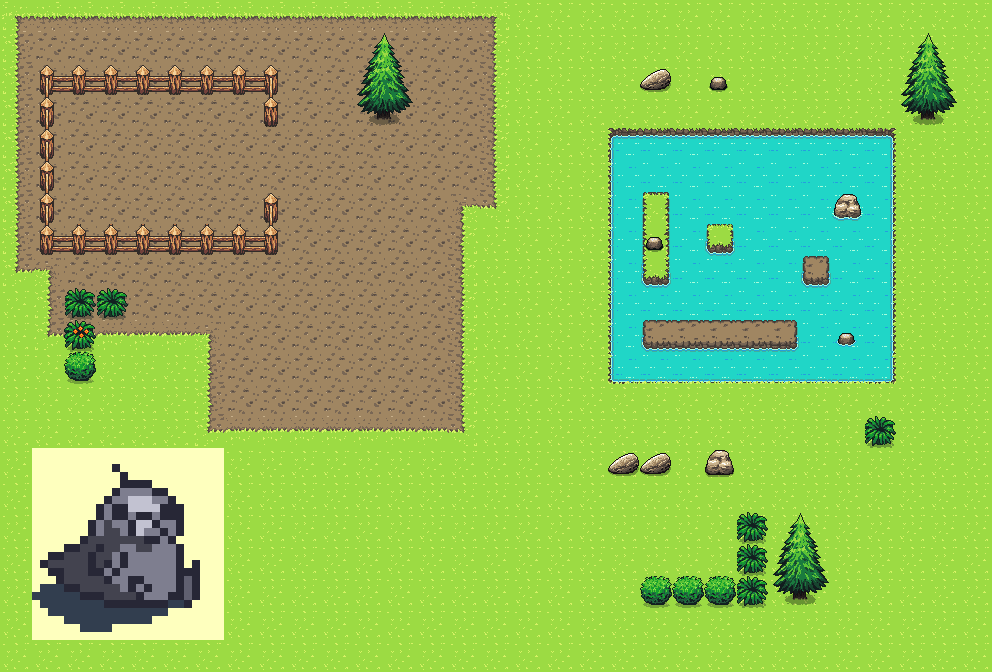
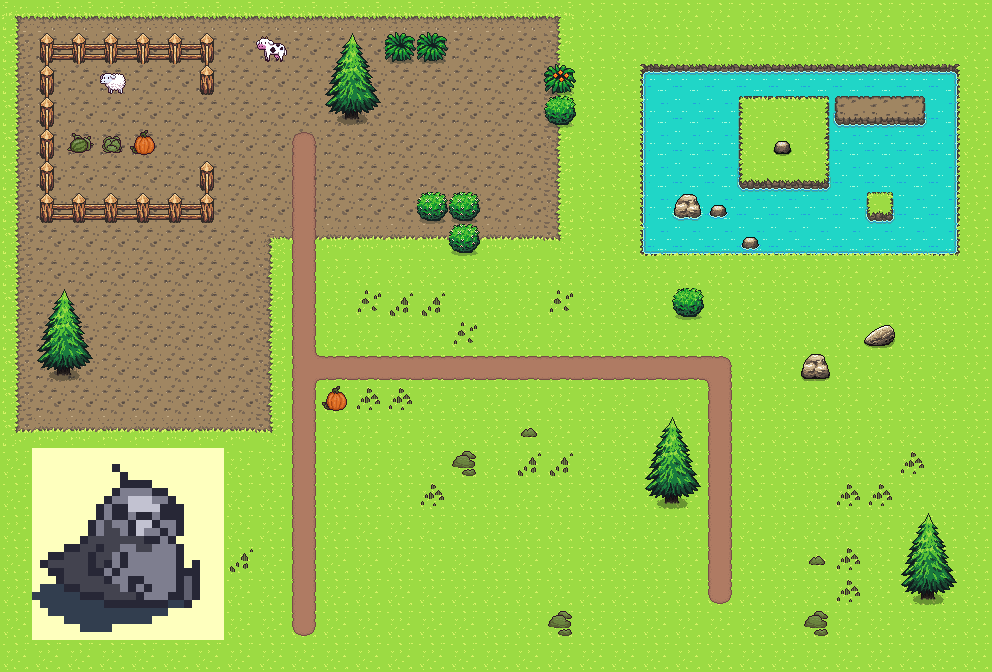
Add files via upload

diff --git a/tilesets/tilesheet_basic.tsx b/tilesets/tilesheet_basic.tsx
@@ -1,4 +1,4 @@
 <?xml version="1.0" encoding="UTF-8"?>
 <tileset version="1.10" tiledversion="1.11.2" name="tilesheet_basic" tilewidth="32" tileheight="32" tilecount="160" columns="16">
- <image source="../../../simple_tileset_32x32_version1.0/simple_tileset_32x32_version1.0/tilesheet_basic.png" width="512" height="320"/>
+ <image source="tilesheet_basic.png" width="512" height="320"/>
 </tileset>

diff --git a/tilesets/assets_basic.tsx b/tilesets/assets_basic.tsx
@@ -1,4 +1,4 @@
 <?xml version="1.0" encoding="UTF-8"?>
 <tileset version="1.10" tiledversion="1.11.2" name="assets_basic" tilewidth="32" tileheight="32" tilecount="16" columns="4">
- <image source="../../../simple_tileset_32x32_version1.0/simple_tileset_32x32_version1.0/assets_basic.png" width="128" height="128"/>
+ <image source="assets_basic.png" width="128" height="128"/>
 </tileset>

diff --git a/tilesets/fence.tsx b/tilesets/fence.tsx
@@ -1,4 +1,4 @@
 <?xml version="1.0" encoding="UTF-8"?>
 <tileset version="1.10" tiledversion="1.11.2" name="fence" tilewidth="32" tileheight="32" tilecount="16" columns="4">
- <image source="../../../simple_tileset_32x32_version1.0/simple_tileset_32x32_version1.0/fence.png" width="128" height="128"/>
+ <image source="fence.png" width="128" height="128"/>
 </tileset>

diff --git a/tilesets/duck.tsx b/tilesets/duck.tsx
@@ -1,4 +1,4 @@
 <?xml version="1.0" encoding="UTF-8"?>
 <tileset version="1.10" tiledversion="1.11.2" name="duck" tilewidth="32" tileheight="32" tilecount="64" columns="8">
- <image source="../../../duck.png" width="256" height="256"/>
+ <image source="duck.png" width="256" height="256"/>
 </tileset>

diff --git a/tilesets/FarmAnimals.tsx b/tilesets/FarmAnimals.tsx
@@ -1,0 +1,4 @@
+<?xml version="1.0" encoding="UTF-8"?>
+<tileset version="1.10" tiledversion="1.11.2" name="FarmAnimals" tilewidth="32" tileheight="32" tilecount="48" columns="6">
+ <image source="FarmAnimals.png" width="192" height="256"/>
+</tileset>

diff --git a/tilesets/PlantsGreen.tsx b/tilesets/PlantsGreen.tsx
@@ -1,0 +1,4 @@
+<?xml version="1.0" encoding="UTF-8"?>
+<tileset version="1.10" tiledversion="1.11.2" name="PlantsGreen" tilewidth="32" tileheight="32" tilecount="12" columns="3">
+ <image source="PlantsGreen.png" width="96" height="128"/>
+</tileset>

diff --git a/tilesets/Veggies.tsx b/tilesets/Veggies.tsx
@@ -1,0 +1,4 @@
+<?xml version="1.0" encoding="UTF-8"?>
+<tileset version="1.10" tiledversion="1.11.2" name="Veggies" tilewidth="32" tileheight="32" tilecount="6" columns="3">
+ <image source="Veggies.png" width="96" height="64"/>
+</tileset>

diff --git a/tilesets/Paths.tsx b/tilesets/Paths.tsx
@@ -1,0 +1,4 @@
+<?xml version="1.0" encoding="UTF-8"?>
+<tileset version="1.10" tiledversion="1.11.2" name="Paths" tilewidth="32" tileheight="32" tilecount="48" columns="8">
+ <image source="Paths.png" width="256" height="192"/>
+</tileset>
